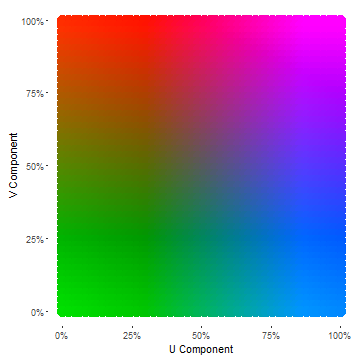
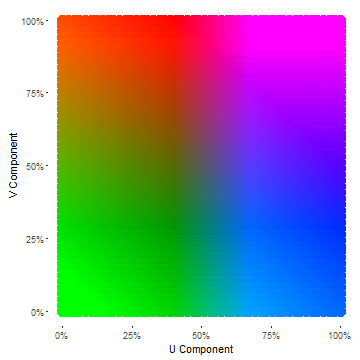
modified UV scaling limits in YUV_projection to improve accuracy. Previous limits derived from converting all possible RGB values to YUV and observing limits. New limits provided by BBC specification document.

diff --git a/readme.md b/readme.md
@@ -1,7 +1,6 @@
 # colorplaner
 
 [![BuildStatus](https://travis-ci.org/wmurphyrd/colorplaner.svg?branch=master)](https://travis-ci.org/wmurphyrd/colorplaner)
-
 [![Coverage Status](https://coveralls.io/repos/github/wmurphyrd/colorplaner/badge.svg?branch=master)](https://coveralls.io/github/wmurphyrd/colorplaner?branch=master)
 
 
@@ -42,6 +41,9 @@ To install:
 ```r
 devtools::install_github("wmurphyrd/colorplaner")
 ```
+
+#### Version 0.0.0.9007
+* Changed UV conversion scaling to match limits from BBC research. Colorplane scale is now a more accurate representation of YUV color space. See `?YUV_projection` for references.
 
 #### Version 0.0.0.9006
 * Removed unnecessary package version requirements. Still requires at least ggplot2 v2.0.0 for the extension system. 

diff --git a/NEWS.md b/NEWS.md
@@ -1,3 +1,6 @@
+# Version 0.0.0.9007
+* Changed UV conversion scaling to match limits from BBC research. Colorplane scale is now a more accurate representation of YUV color space. See `?YUV_projection` for references.
+
 # Version 0.0.0.9006
 * Removed unnecessary package version requirements. Still requires at least ggplot2 v2.0.0 for the extension system. 
 
